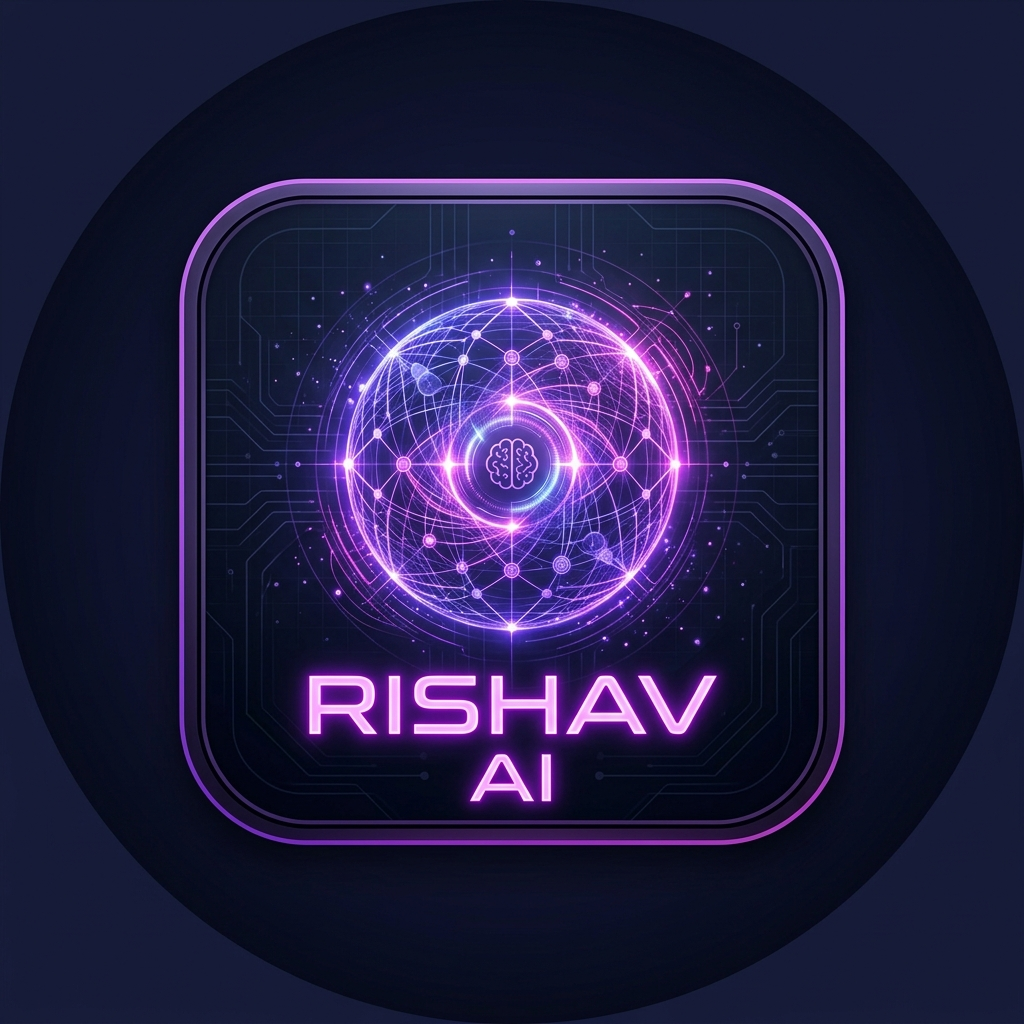
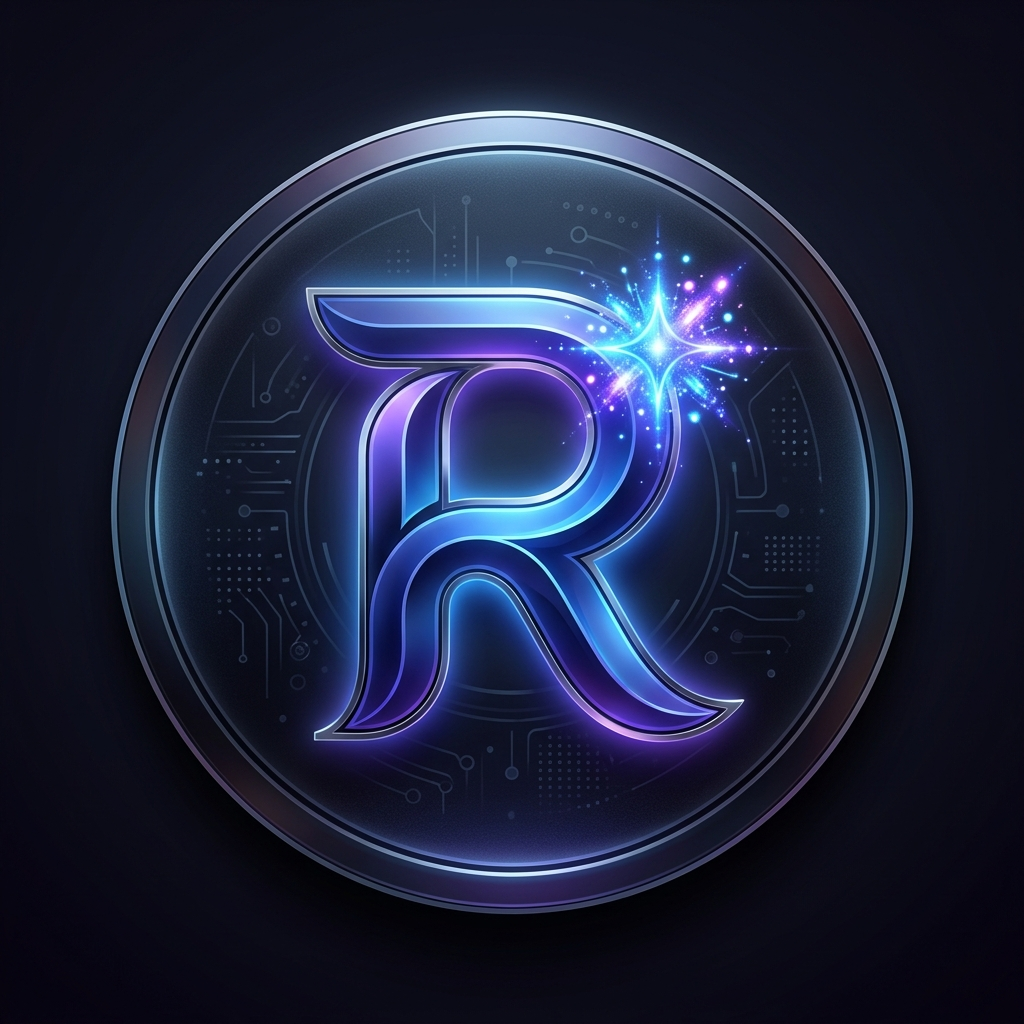
UPDATE THE BACKEND CODE

diff --git a/src/pages/Home.jsx b/src/pages/Home.jsx
@@ -21,33 +21,35 @@ const Home = () => {
       <div className="absolute inset-0 cyber-grid pointer-events-none opacity-80" />
 
       {/* Navigation Header */}
-      <nav className="relative z-10 max-w-7xl mx-auto w-full flex items-center justify-between px-4 sm:px-6 py-3 shrink-0 select-none">
-        <div className="flex items-center gap-2">
-          <div className="flex h-9 w-9 items-center justify-center rounded-lg bg-gradient-to-tr from-brand-purple to-indigo-900 border border-brand-purple/40 shadow-[0_0_20px_rgba(116,9,104,0.35)] animate-pulse">
-            <Sparkles size={18} className="text-white" />
+      <header className="sticky top-0 z-50 w-full border-b border-dark-border/40 bg-dark-bg/60 backdrop-blur-md select-none shrink-0">
+        <nav className="max-w-7xl mx-auto flex items-center justify-between px-4 sm:px-6 py-3.5">
+          <div className="flex items-center gap-2">
+            <div className="flex h-9 w-9 items-center justify-center rounded-lg bg-gradient-to-tr from-brand-purple to-indigo-900 border border-brand-purple/40 shadow-[0_0_20px_rgba(116,9,104,0.35)] animate-pulse">
+              <Sparkles size={18} className="text-white" />
+            </div>
+            <span className="font-bold text-lg sm:text-xl tracking-tight bg-gradient-to-r from-white to-gray-400 bg-clip-text text-transparent">
+              Rishav AI
+            </span>
           </div>
-          <span className="font-bold text-lg sm:text-xl tracking-tight bg-gradient-to-r from-white to-gray-400 bg-clip-text text-transparent">
-            Rishav AI
-          </span>
-        </div>
-        <div className="flex items-center gap-3 sm:gap-4">
-          <Link
-            to="/login"
-            className="text-xs sm:text-sm font-semibold hover:text-white transition-colors cursor-pointer"
-          >
-            Sign In
-          </Link>
-          <div className="relative">
-            <span className="absolute inset-0 rounded-xl bg-brand-purple/35 animate-ping pointer-events-none" />
+          <div className="flex items-center gap-3 sm:gap-4">
             <Link
-              to="/register"
-              className="relative bg-brand-purple hover:bg-brand-purple-hover text-white text-xs sm:text-sm font-bold py-2 px-3.5 sm:py-2.5 sm:px-5 rounded-xl transition-all cursor-pointer shadow-[0_0_25px_rgba(116,9,104,0.35)] hover:scale-[1.02] flex items-center gap-1"
+              to="/login"
+              className="text-xs sm:text-sm font-semibold hover:text-white transition-colors cursor-pointer"
             >
-              Get Started
+              Sign In
             </Link>
+            <div className="relative">
+              <span className="absolute inset-0 rounded-xl bg-brand-purple/35 animate-ping pointer-events-none" />
+              <Link
+                to="/register"
+                className="relative bg-brand-purple hover:bg-brand-purple-hover text-white text-xs sm:text-sm font-bold py-2 px-3.5 sm:py-2.5 sm:px-5 rounded-xl transition-all cursor-pointer shadow-[0_0_25px_rgba(116,9,104,0.35)] hover:scale-[1.02] flex items-center gap-1"
+              >
+                Get Started
+              </Link>
+            </div>
           </div>
-        </div>
-      </nav>
+        </nav>
+      </header>
 
       {/* Hero Section */}
       <main className="relative z-10 max-w-5xl mx-auto px-4 sm:px-6 py-2 md:py-4 flex-1 flex flex-col items-center justify-center text-center animate-elastic">

diff --git a/src/index.css b/src/index.css
@@ -18,12 +18,12 @@
 /* Base custom styles */
 * {
   scrollbar-width: thin;
-  scrollbar-color: rgba(116, 9, 104, 0.45) transparent;
+  scrollbar-color: rgba(156, 21, 141, 0.25) transparent;
 }
 
 *::-webkit-scrollbar {
-  width: 6px;
-  height: 6px;
+  width: 5px;
+  height: 5px;
 }
 
 *::-webkit-scrollbar-track {
@@ -31,13 +31,12 @@
 }
 
 *::-webkit-scrollbar-thumb {
-  background-color: rgba(116, 9, 104, 0.45);
-  border-radius: 4px;
-  border: 1px solid rgba(0, 0, 0, 0.1);
+  background: linear-gradient(180deg, rgba(156, 21, 141, 0.2) 0%, rgba(116, 9, 104, 0.35) 100%);
+  border-radius: 99px;
 }
 
 *::-webkit-scrollbar-thumb:hover {
-  background-color: rgba(116, 9, 104, 0.7);
+  background: linear-gradient(180deg, rgba(156, 21, 141, 0.45) 0%, rgba(116, 9, 104, 0.65) 100%);
 }
 
 body {
@@ -200,10 +199,11 @@ body {
 
 /* Glassmorphism custom styling utilities */
 .glass-panel {
-  background: rgba(23, 29, 48, 0.35);
-  backdrop-filter: blur(16px);
-  -webkit-backdrop-filter: blur(16px);
-  border: 1px solid rgba(255, 255, 255, 0.06);
+  background: rgba(15, 20, 35, 0.45);
+  backdrop-filter: blur(24px);
+  -webkit-backdrop-filter: blur(24px);
+  border: 1px solid rgba(255, 255, 255, 0.08);
+  box-shadow: 0 12px 40px 0 rgba(0, 0, 0, 0.45);
 }
 
 .glass-panel-hover {
@@ -211,9 +211,9 @@ body {
 }
 
 .glass-panel-hover:hover {
-  background: rgba(23, 29, 48, 0.6);
-  border-color: rgba(156, 21, 141, 0.45);
-  box-shadow: 0 0 30px rgba(156, 21, 141, 0.2);
+  background: rgba(18, 24, 43, 0.6);
+  border-color: rgba(156, 21, 141, 0.55);
+  box-shadow: 0 0 35px rgba(156, 21, 141, 0.25), 0 12px 40px 0 rgba(0, 0, 0, 0.5);
   transform: translateY(-4px) scale(1.01);
 }
 

diff --git a/server/services/emailService.js b/server/services/emailService.js
@@ -49,6 +49,16 @@ const sendMail = async ({ toEmail, toName, subject, htmlContent }) => {
 export const sendVerificationEmail = async (toEmail, name, token, clientUrl) => {
   const url = `${clientUrl}/verify-email/${token}`;
   
+  if (process.env.NODE_ENV === 'development' || !process.env.BREVO_API_KEY) {
+    console.log('\n┌────────────────────────────────────────────────────────┐');
+    console.log('│ 📬  [DEVELOPMENT EMAIL BYPASS]                        │');
+    console.log(`│ To: ${toEmail.padEnd(50)} │`);
+    console.log(`│ Name: ${name.padEnd(48)} │`);
+    console.log(`│ Verification Link:                                     │`);
+    console.log(`│ ${url.padEnd(54)} │`);
+    console.log('└────────────────────────────────────────────────────────┘\n');
+  }
+  
   const htmlContent = `
     <!DOCTYPE html>
     <html>
@@ -96,6 +106,15 @@ export const sendVerificationEmail = async (toEmail, name, token, clientUrl) => 
  * Send password reset email containing OTP.
  */
 export const sendOtpEmail = async (toEmail, name, otp) => {
+  if (process.env.NODE_ENV === 'development' || !process.env.BREVO_API_KEY) {
+    console.log('\n┌────────────────────────────────────────────────────────┐');
+    console.log('│ 📬  [DEVELOPMENT EMAIL BYPASS]                        │');
+    console.log(`│ To: ${toEmail.padEnd(50)} │`);
+    console.log(`│ Name: ${name.padEnd(48)} │`);
+    console.log(`│ Password Reset OTP: ${otp.padEnd(35)} │`);
+    console.log('└────────────────────────────────────────────────────────┘\n');
+  }
+
   const htmlContent = `
     <!DOCTYPE html>
     <html>

diff --git a/src/services/api.js b/src/services/api.js
@@ -1,7 +1,12 @@
 import axios from 'axios';
 
 // Base URL points to our Express Node.js server
-const API_URL = import.meta.env.VITE_API_URL || 'http://localhost:5000/api';
+const getApiUrl = () => {
+  const isLocal = typeof window !== 'undefined' && (window.location.hostname === 'localhost' || window.location.hostname === '127.0.0.1');
+  return isLocal ? 'http://localhost:5000/api' : (import.meta.env.VITE_API_URL || 'http://localhost:5000/api');
+};
+
+const API_URL = getApiUrl();
 
 const api = axios.create({
   baseURL: API_URL,

diff --git a/src/components/GoogleLoginButton.jsx b/src/components/GoogleLoginButton.jsx
@@ -27,7 +27,7 @@ const GoogleLoginButton = () => {
           window.google.accounts.id.renderButton(buttonRef.current, {
             theme: 'outline',
             size: 'large',
-            width: '100%',
+            width: 320,
             text: 'continue_with',
             shape: 'rectangular',
           });